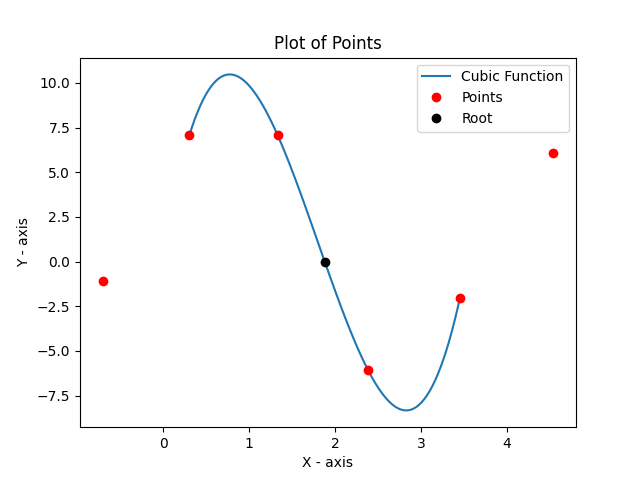
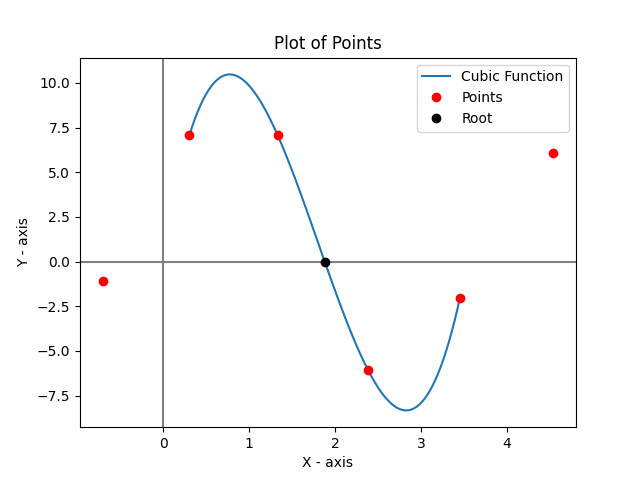
Added axes

Changed region(s): [[0.5312, 0.5312, 0.9062, 0.5625], [0.125, 0.5312, 0.5, 0.5625]]

diff --git a/plotmydata.py b/plotmydata.py
@@ -14,6 +14,8 @@ rootX = findroot(x[2],x[3])
 rootY = cubicfit(x[1:5],y[1:5],rootX)
 
 
+plt.axhline(0,0,1,color="grey")
+plt.axvline(0,0,1,color="grey")
 plt.plot(px,py,label="Cubic Function")
 plt.plot(x,y,"ro", label="Points")
 plt.plot(rootX,rootY,"o",color="black",label="Root")
